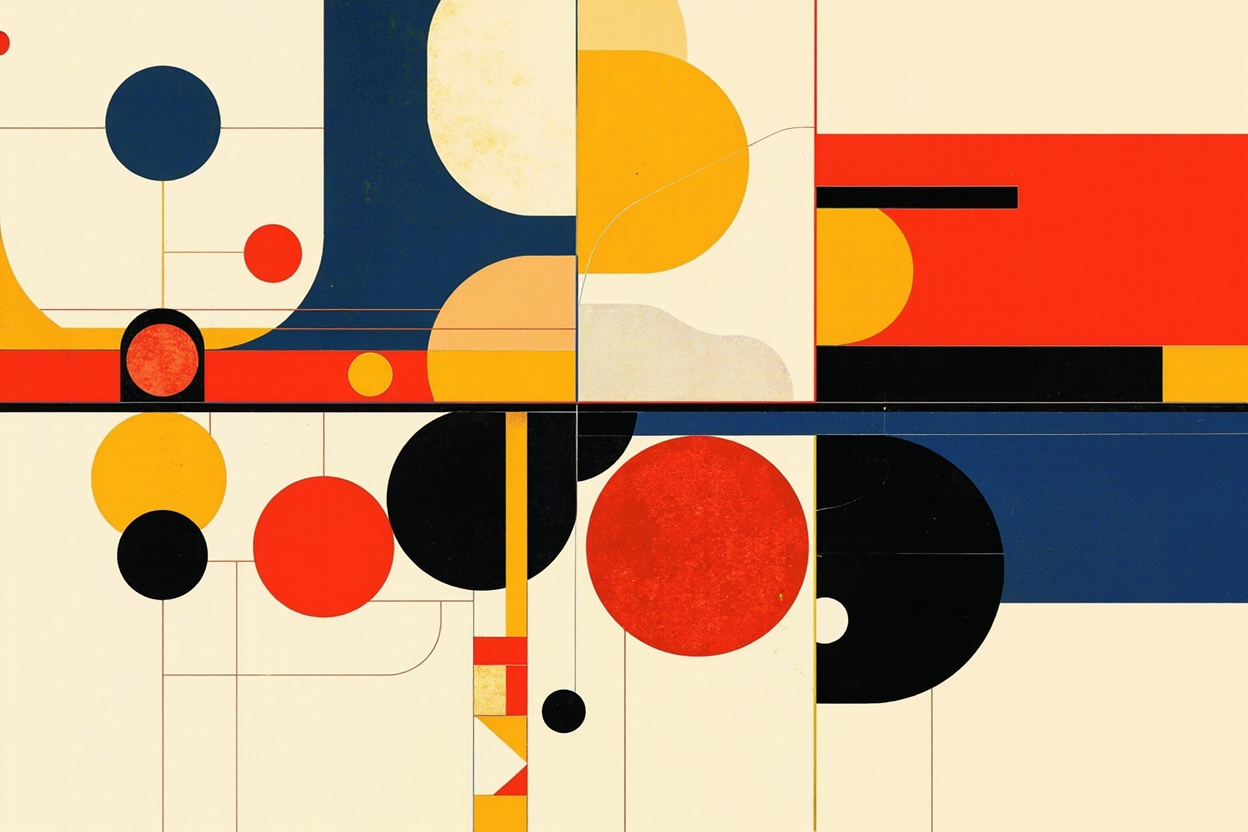
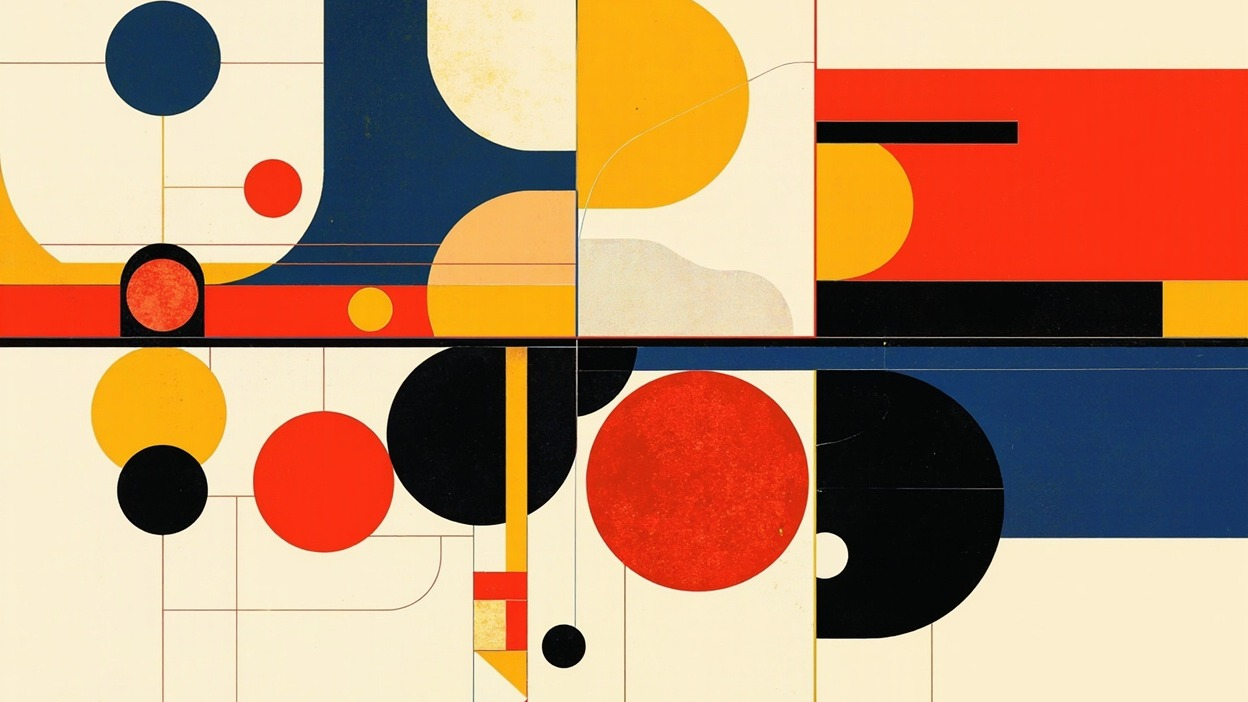
Fix card image display: regenerate to 16:9 aspect ratio
- 08-bigquery: replaced portrait ink painting with custom Bauhaus SVG (1600x900 viewBox, 16:9)
- 09-powerbi: cropped 3:2 → 16:9 (1248x832 → 1248x702, 65px off top/bottom)
- 10-copilot: cropped 3:2 → 16:9 (1248x832 → 1248x702, 65px off top/bottom)
- 07-changxin: kept SVG (was already 16:9 viewBox)
- All other cards: confirmed 16:9 correct

Result: 14 card images on homepage now all display at correct 16:9 aspect ratio
without distortion or content loss.

diff --git a/index.html b/index.html
@@ -523,7 +523,7 @@
       </a>
 
       <a href="essays/article-08.html" class="card" data-tags="data,cloud,2026">
-        <img class="card-img" src="images/08-crosscloud-art.jpg" alt="BigQuery × OneLake" loading="lazy" />
+        <img class="card-img" src="images/08-bigquery-art.svg" alt="BigQuery × OneLake" loading="lazy" />
         <div class="card-body">
           <div class="card-tag">Data Engineering · Cloud · Cross-cloud</div>
           <h3 class="card-title">When Google BigQuery meets Microsoft OneLake: three paths for cross-cloud data lakes.</h3>
@@ -536,7 +536,7 @@
       </a>
 
       <a href="essays/article-07.html" class="card" data-tags="markets,cn,a-share,2026">
-        <img class="card-img" src="images/07-cxmt-art.jpg" alt="CXMT" loading="lazy" />
+        <img class="card-img" src="images/07-changxin-art.svg" alt="CXMT" loading="lazy" />
         <div class="card-body">
           <div class="card-tag">Markets · Storage · China</div>
           <h3 class="card-title">CXMT's valuation logic: the new king of A-shares at 3.3 trillion yuan.</h3>
@@ -549,7 +549,7 @@
       </a>
 
       <a href="essays/article-06.html" class="card" data-tags="career,ai,genai,2026">
-        <img class="card-img" src="images/06-genai-path-art.jpg" alt="GenAI path" loading="lazy" />
+        <img class="card-img" src="images/06-nlp-art.jpg" alt="GenAI path" loading="lazy" />
         <div class="card-body">
           <div class="card-tag">Career · GenAI · NLP</div>
           <h3 class="card-title">NLP + GenAI: a six-month path from data scientist to GenAI data scientist.</h3>
@@ -562,7 +562,7 @@
       </a>
 
       <a href="essays/article-05.html" class="card" data-tags="ai,knowledge,method,2026">
-        <img class="card-img" src="images/05-llm-wiki-art.jpg" alt="LLM Wiki" loading="lazy" />
+        <img class="card-img" src="images/05-karpathy-art.jpg" alt="LLM Wiki" loading="lazy" />
         <div class="card-body">
           <div class="card-tag">Methodology · Knowledge</div>
           <h3 class="card-title">Karpathy's LLM Wiki: an idea that quietly changes how we manage knowledge.</h3>
@@ -575,7 +575,7 @@
       </a>
 
       <a href="essays/article-04.html" class="card" data-tags="markets,us,13f,2026">
-        <img class="card-img" src="images/04-13f-art.jpg" alt="13F" loading="lazy" />
+        <img class="card-img" src="images/04-wall-street-art.jpg" alt="13F" loading="lazy" />
         <div class="card-body">
           <div class="card-tag">Markets · 13F</div>
           <h3 class="card-title">Wall Street's latest positioning: Berkshire and Bridgewater in Q1 2026.</h3>
@@ -601,7 +601,7 @@
       </a>
 
       <a href="essays/article-02.html" class="card" data-tags="investing,method,quant,2026">
-        <img class="card-img" src="images/02-value-quant-art.jpg" alt="Value + quant" loading="lazy" />
+        <img class="card-img" src="images/02-value-art.jpg" alt="Value + quant" loading="lazy" />
         <div class="card-body">
           <div class="card-tag">Investing · Method</div>
           <h3 class="card-title">Value meets quant: a personal approach.</h3>
